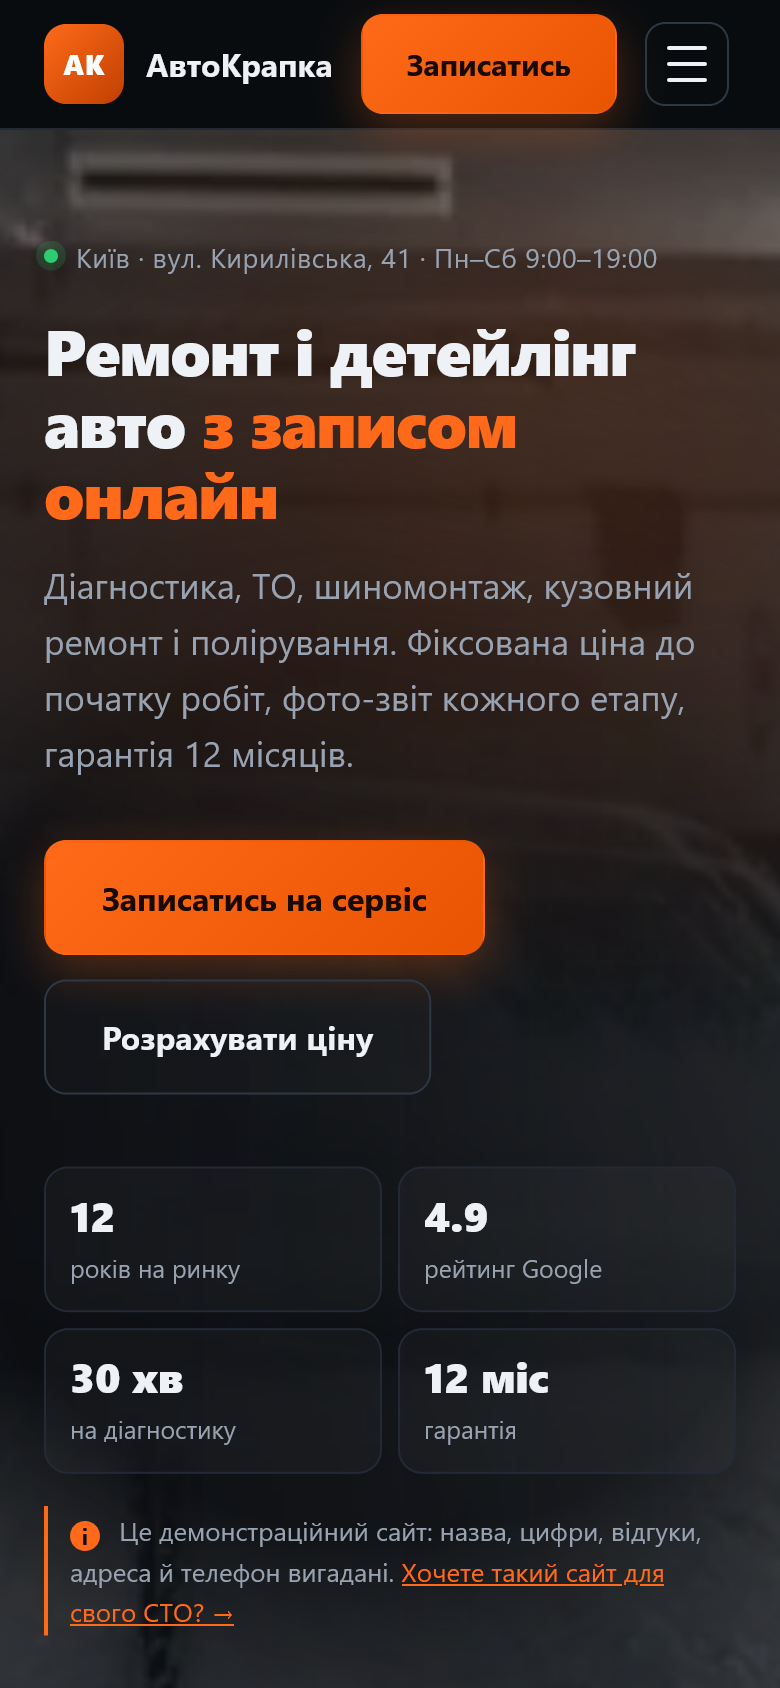
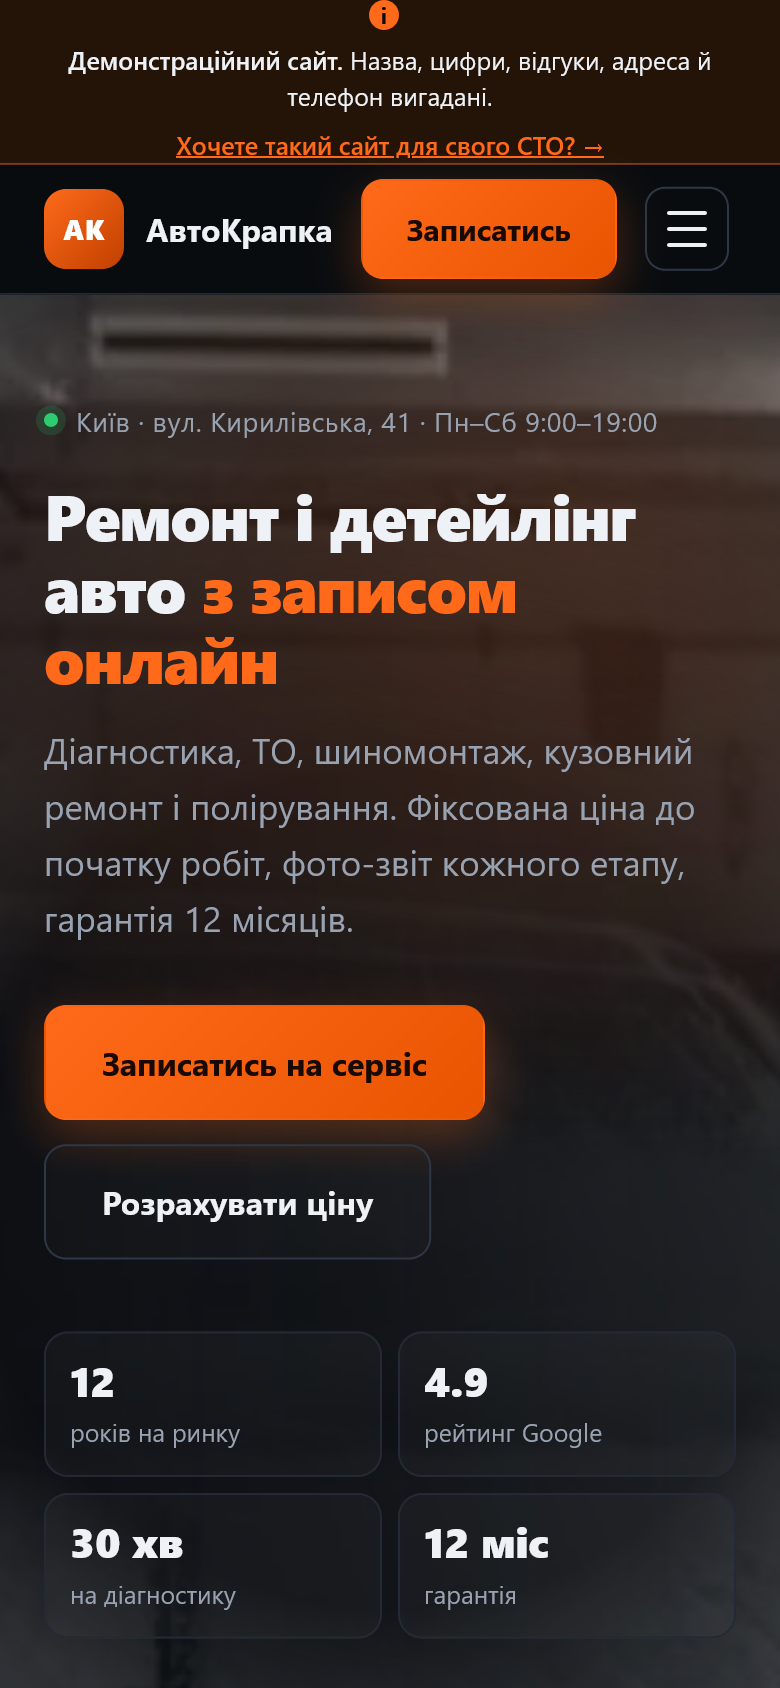
Пометку о демо не было видно — исправлено: полоса в самом начале страницы
Владелец не видел строку «Хочете такий сайт для свого СТО?» ни на ПК, ни на телефоне. Он прав.

Причина: пометка стояла после кнопок героя, на 1366x768 её верх был на 601 px, а в реальном окне
браузера панели съедают ~120-130 px — строка оказывалась у нижнего края или за ним. На телефоне
была открыта вкладка, загруженная до правки. Моя проверка шла во вьюпорте без панелей браузера,
и вывод я делал по пересказу снимка, а не по геометрии — это и была ошибка.

Что сделано:
- полоса «Демонстраційний сайт. Назва, цифри, відгуки, адреса й телефон вигадані.
  Хочете такий сайт для свого СТО? →» стоит в самом начале страницы (y=0) на /, /cases, /pricing;
- дубль пометки из героя убран; role="region" с названием — иначе axe даёт нарушение;
- test_flow: проверка переписана (полоса должна быть первым элементом до <header>), +3 проверки

Проверено доказательствами, а не пересказом картинки:
- геометрия y=0, нижний край внутри видимой области при 1366x768, 1366x650, 1280x800, 1920x1080,
  390x844, 360x640;
- отрисовка: удаление элемента меняет 92-100% пикселей в его полосе;
- на реальном телефоне: y=0, высота 82, фон полосы найден в 113 строках экрана, текст прочитан;
- липкая шапка и якоря целы; test_flow 249/0, W3C 20 страниц 0/0, axe 0, якоря 88/0,
  кросс-браузерные 75/0.

CHECKLIST: разбор ошибки и правило «видно без прокрутки» — только по геометрии и пикселям
относительно реальной видимой высоты окна. Навык android-phone-live-test дополнен.

diff --git a/templates/index.html b/templates/index.html
@@ -26,6 +26,14 @@
 </head>
 <body>
 
+<div class="demo-bar" role="region" aria-label="Демонстраційний сайт — повідомлення">
+  <div class="wrap demo-bar-inner">
+    <span class="demo-dot" aria-hidden="true">i</span>
+    <span><b>Демонстраційний сайт.</b> Назва, цифри, відгуки, адреса й телефон вигадані.</span>
+    <a href="/cases#offer">Хочете такий сайт для свого СТО? →</a>
+  </div>
+</div>
+
 <header class="top" id="top">
   <div class="wrap top-inner">
     <a class="brand" href="#top">
@@ -95,9 +103,6 @@
         <a class="btn btn-accent btn-lg" href="#book">Записатись на сервіс</a>
         <a class="btn btn-ghost btn-lg" href="#calc">Розрахувати ціну</a>
       </div>
-      <p class="demo-note"><span class="demo-dot" aria-hidden="true">i</span>
-        Це демонстраційний сайт: назва, цифри, відгуки, адреса й телефон вигадані.
-        <a href="/cases#offer">Хочете такий сайт для свого СТО? →</a></p>
       <ul class="facts">
         <li><b>12</b><span>років на ринку</span></li>
         <li><b>4.9</b><span>рейтинг Google</span></li>

diff --git a/static/style.css b/static/style.css
@@ -1,4 +1,14 @@
 /* АвтоКрапка — тёмная тема, адаптив от 360px */
+/* полоса о демонстрации — первое, что видно на странице, до всякой прокрутки */
+.demo-bar{background:#241408;border-bottom:1px solid rgba(255,106,26,.45)}
+.demo-bar-inner{display:flex;align-items:center;justify-content:center;gap:10px;flex-wrap:wrap;
+  padding:9px 0;font-size:13.5px;line-height:1.45;color:var(--text);text-align:center}
+.demo-bar b{font-weight:600}
+.demo-bar a{color:var(--accent);font-weight:600;text-decoration:underline}
+@media (max-width:560px){
+  .demo-bar-inner{font-size:12.5px;padding:8px 6px;gap:6px}
+  .demo-bar-inner span:nth-child(2){flex:1 1 100%}
+}
 :root{
   --bg:#0a0c10;
   --bg-2:#0f1218;

diff --git a/templates/cases.html b/templates/cases.html
@@ -19,6 +19,14 @@
 <link rel="stylesheet" href="/static/style.css?v={{ASSET_V}}">
 </head>
 <body class="cases-page">
+<div class="demo-bar" role="region" aria-label="Демонстраційний сайт — повідомлення">
+  <div class="wrap demo-bar-inner">
+    <span class="demo-dot" aria-hidden="true">i</span>
+    <span><b>Демонстраційний сайт.</b> Назва, цифри, відгуки, адреса й телефон вигадані.</span>
+    <a href="/cases#offer">Хочете такий сайт для свого СТО? →</a>
+  </div>
+</div>
+
 
 <header class="top">
   <div class="wrap top-inner">

diff --git a/templates/pricing.html b/templates/pricing.html
@@ -18,6 +18,14 @@
 <link rel="stylesheet" href="/static/style.css?v={{ASSET_V}}">
 </head>
 <body class="cases-page">
+<div class="demo-bar" role="region" aria-label="Демонстраційний сайт — повідомлення">
+  <div class="wrap demo-bar-inner">
+    <span class="demo-dot" aria-hidden="true">i</span>
+    <span><b>Демонстраційний сайт.</b> Назва, цифри, відгуки, адреса й телефон вигадані.</span>
+    <a href="/cases#offer">Хочете такий сайт для свого СТО? →</a>
+  </div>
+</div>
+
 
 <header class="top">
   <div class="wrap top-inner">

diff --git a/test_flow.py b/test_flow.py
@@ -831,8 +831,16 @@ check("публічне API слотів: без no-store",
 
 # ---------- правки по аудиту 10.11.2026: демо-пометки, оффер с главной, вопрос без записи ----------
 _, _h, _ = get("/")
-check("главная: пометка «це демонстраційний сайт» на первом экране",
-      'class="demo-note"' in _h and "демонстраційний сайт" in _h)
+# полоса о демонстрации должна стоять САМЫМ ПЕРВЫМ элементом страницы — иначе она
+# уходит за нижний край окна и её не видно без прокрутки (ошибка, найденная 10.11.2026)
+check("главная: полоса «демонстраційний сайт» стоит в самом начале страницы",
+      _h.find('class="demo-bar"') > 0 and _h.find('class="demo-bar"') < _h.find('<header'),
+      _h.find('class="demo-bar"'))
+check("главная: в полосе есть текст о вымышленных данных и ссылка на предложение",
+      "Назва, цифри, відгуки, адреса й телефон вигадані" in _h and "Хочете такий сайт для свого СТО" in _h)
+for _page, _body in (("/cases", None), ("/pricing", None)):
+    _b = get(_page)[1]
+    check("%s: та же полоса о демонстрации сверху" % _page, 'class="demo-bar"' in _b)
 check("главная: из пометки ссылка на предложение /cases#offer", 'href="/cases#offer"' in _h)
 check("главная: ссылка на предложение есть и в мобильном меню", _h.count("/cases#offer") >= 2,
       _h.count("/cases#offer"))

diff --git a/CHECKLIST.md b/CHECKLIST.md
@@ -636,3 +636,39 @@ axe 0 нарушений, якоря 88/0, кросс-браузерные 75/0,
 
 Приём с `adb reverse` и снятием экрана записан в навык `android-phone-live-test`.
 
+## Исправление моей ошибки: пометку о демо не было видно (10.11.2026)
+
+Владелец сказал: строки «Хочете такий сайт для свого СТО?» не видно ни на ПК, ни на телефоне.
+Он был прав, я — нет.
+
+**Что было не так.** Пометку я поставил после кнопок героя — на 1366x768 она оказалась на высоте
+601–645 px. В реальном окне браузера панели (адресная строка, закладки, вкладки) съедают ~120–130 px,
+то есть видимая высота ~640 px: строка оказывалась у самого края или за ним. На телефоне вкладка
+была открыта ещё до правки, поэтому там показывалась старая версия.
+
+**Почему я этого не увидел.** Я проверял во вьюпорте 768/800 px без панелей браузера и делал вывод
+по пересказу снимка, а не по геометрии элемента относительно реальной видимой высоты. «Видно» я
+подтвердил неправильно.
+
+**Как исправлено.** Пометка стала полосой в самом начале страницы (y=0) — до шапки, на главной,
+на /cases и на /pricing. На телефоне она занимает две строки и стоит первой под адресной строкой.
+Дубль пометки из героя убран.
+
+**Как теперь проверено (без интерпретаций):**
+
+- геометрия: y=0, высота 21 px на ПК и 82 px на телефоне, нижний край внутри видимой области
+  при 1366x768, 1366x650, 1280x800, 1920x1080, 390x844, 360x640;
+- отрисовка: удаление элемента меняет 92–100 % пикселей в его полосе (значит, он реально нарисован);
+- на телефоне: полоса на y=0, высота 82, фон полосы найден на экране в 113 строках, текст прочитан
+  с экрана — «Демонстраційний сайт. Назва, цифри, відгуки, адреса й телефон вигадані.
+  Хочете такий сайт для свого СТО? →»;
+- липкая шапка и якоря не сломались: секция встаёт ровно под шапку (75 px на ПК, 65 px на телефоне);
+- проверки: test_flow 249 пройдено / 0 провалов, W3C 20 страниц 0/0, axe 0 нарушений
+  (полоса — ориентир `role="region"` с названием, иначе axe даёт нарушение «content not in landmarks»),
+  якоря 88/0, кросс-браузерные 75/0.
+
+**Правило на будущее.** «Видно без прокрутки» считается доказанным, только если нижний край элемента
+выше видимой высоты РЕАЛЬНОГО окна браузера (минус ~120 px панелей) и это подтверждено геометрией
+и пикселями, а не пересказом картинки. Вкладку на телефоне перед проверкой надо перезагружать —
+старая вкладка показывает старую версию.
+
